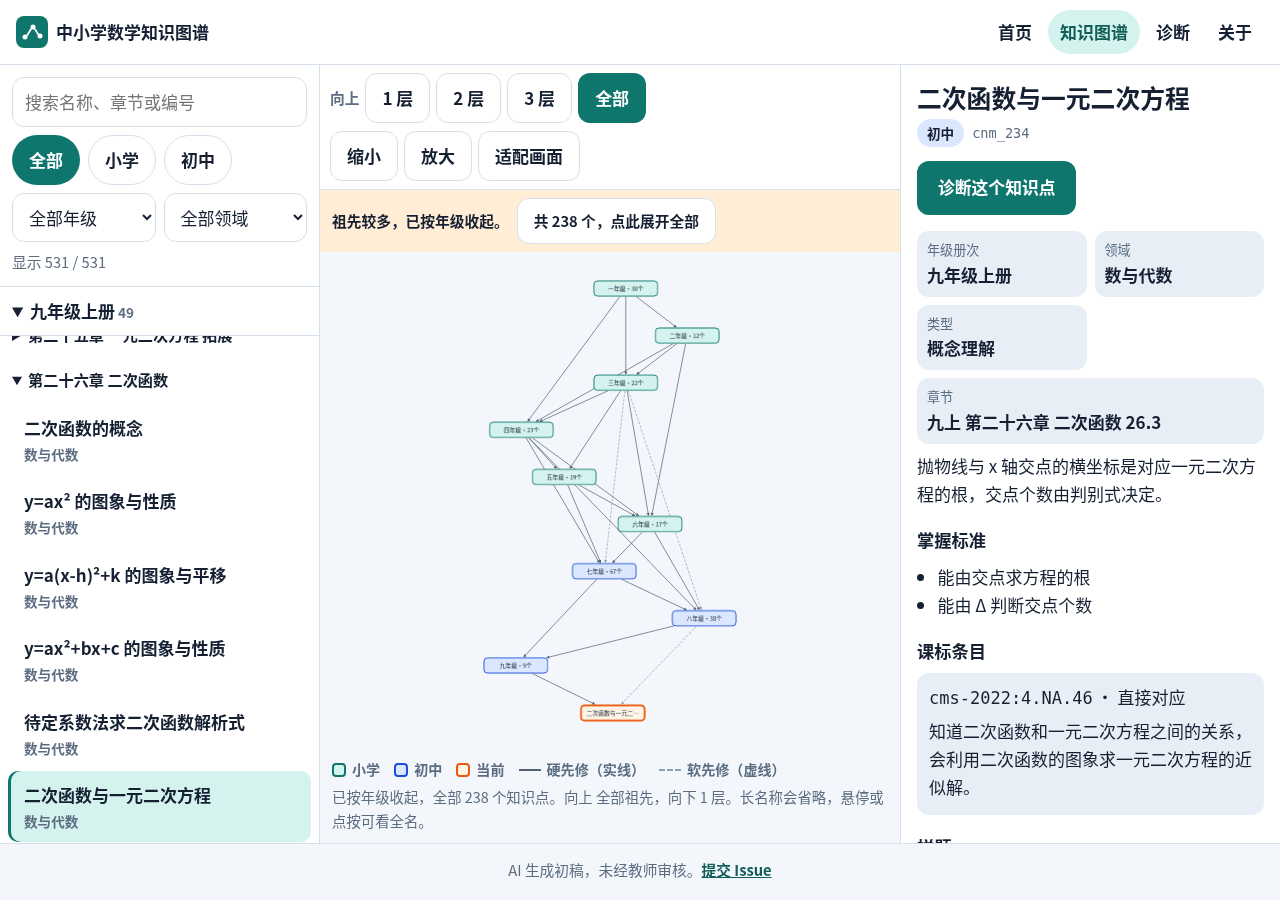
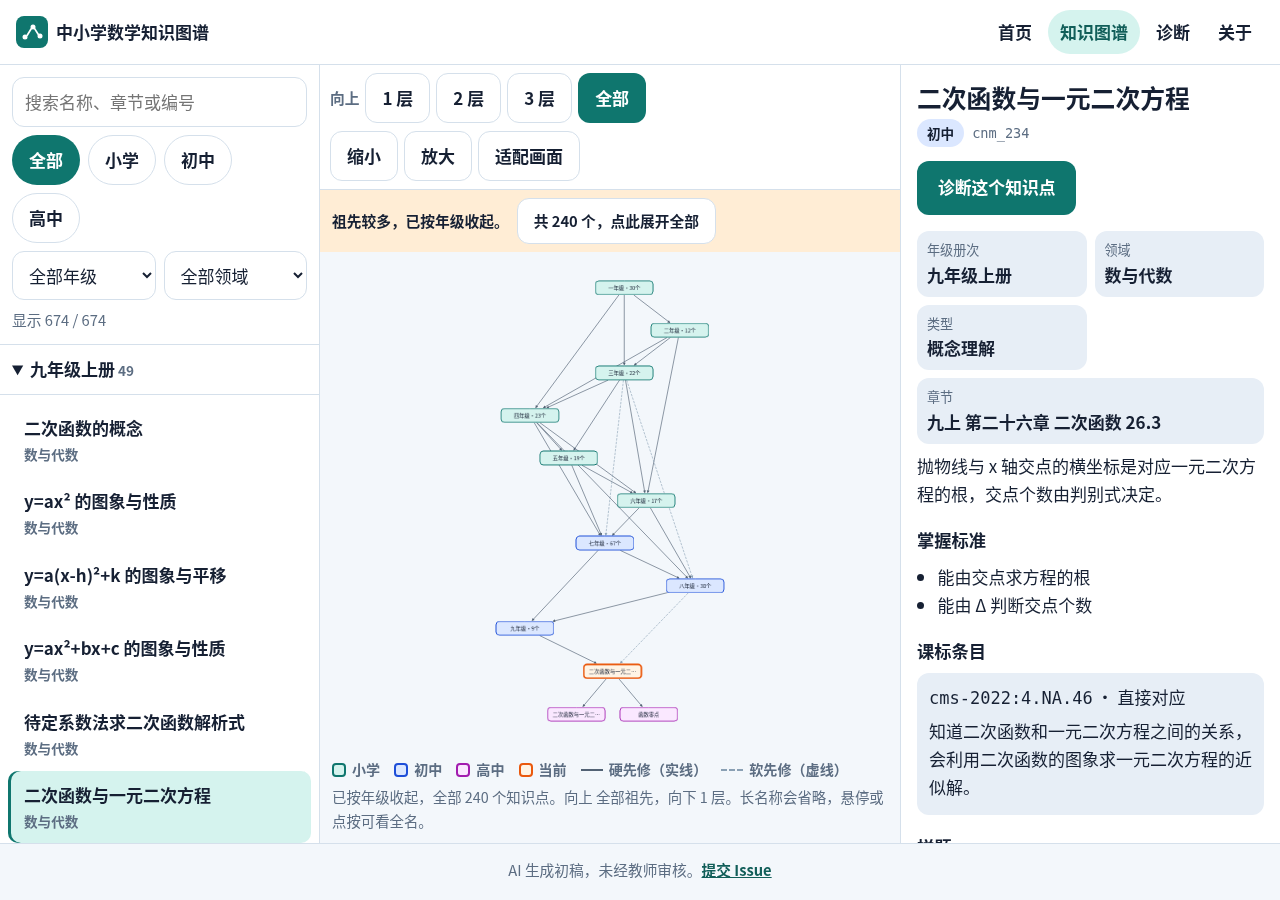
更新高中必修的说明、变更记录和截图
写明目前只做必修、人教 A 版、课标与目录待核，并补上高中浏览和诊断的截图。

diff --git a/docs/standards-mapping.md b/docs/standards-mapping.md
@@ -1,6 +1,6 @@
 # 课标对齐说明：知识点 ↔《义务教育数学课程标准（2022年版）》
 
-> **状态声明：映射由 AI 生成，未经教师或课程专家审核。** 小学与初中都一样。`exact` / `inferred` 是本项目自己的判断标记，不是课标的表述。
+> **状态声明：映射由 AI 生成，未经教师或课程专家审核。** 小学、初中和高中必修都一样。`exact` / `inferred` 是本项目自己的判断标记，不是课标的表述。高中必修 48 条是公开转述，不是逐页核对的原文。
 >
 > **2026-10-19：** 文件已包含第一至三学段。第四学段 157 条的正文没有改。第一至三学段 **不是** 教育部 PDF 的逐页核对，见第 1 节。下面第 3–5 节里「315 / 157 / 15 条无对应」是第三轮只做第四学段时的数字，当前全库数字在第 8 节。
 
@@ -170,3 +170,29 @@
 | `3.SP.01` | 经历数据收集、整理和分析，能述说结论 |
 
 小学知识点：216 个全部有映射；1 条映射 175 个，2 条映射 41 个。初中映射条数仍是第三轮的 exact 286 + inferred 97。小学新增映射是 exact 226 + inferred 31。
+
+## 9. 高中必修（2026-10-20）
+
+依据《普通高中数学课程标准（2017年版2020年修订）》必修课程的五个主题。印发通知：<http://www.moe.gov.cn/srcsite/A26/s8001/202006/t20200603_462199.html>。参考过 PDF <https://www.pep.com.cn/xw/zt/rjwy/gzkb2020/202205/P020220517519489596282.pdf>，**没有逐页核对**。48 条全部 `verbatim: false`，`page_or_ref` 为「待核」，`text_status` 写明是公开转述。
+
+编号 `cms-2017:H.<模块>.NN` 由本图谱按主题编排，不是教育部文件里的原编号。模块与领域不是一一对应：
+
+| 模块 | 条数 | 主题 |
+|---|---:|---|
+| PRE | 9 | 预备知识（集合、常用逻辑用语、相等关系与不等关系、从函数观点看一元二次方程和不等式） |
+| FUN | 17 | 函数（概念与性质、幂函数指数函数对数函数、三角函数、函数应用） |
+| GA | 12 | 几何与代数（平面向量及其应用、复数、立体几何初步）。复数挂在数与代数，向量和立体几何挂在图形与几何 |
+| PS | 8 | 概率与统计 |
+| MI | 2 | 数学建模活动与数学探究活动 |
+
+每个高中知识点挂 1 条。exact 48，inferred 95（inferred 都有 note，并写了待核）。选择性必修和 7.3 复数的三角表示没有编条目。原先没有任何知识点对应的 28 条义务教育课标没有因为这次扩展被引用，所以「无对应知识点」的条数仍是 28；278 条里被引用的是 250。
+
+| 指标 | 数值 |
+|---|---|
+| 课标条目 | 278（义务教育 230 + 高中必修 48） |
+| 正式知识点 | 674（小学 216，初中 315，高中必修 143） |
+| `standards` 非空 | **672 / 674** |
+| 仍为空 | `cnm_130`、`cnm_192` |
+| 映射条数 | exact 560，inferred 223 |
+| 至少有一条 exact 的知识点 | 496 |
+| 被引用的课标条目 | 250 / 278 |

diff --git a/CHANGELOG.md b/CHANGELOG.md
@@ -1,5 +1,30 @@
 # 变更日志
 
+## 2026-10-20（高中必修）
+
+把普通高中必修数学接进同一张图。小学、初中知识点的 **id、名称、题目没有改**；小学边和初中边没有改。只对新增的高中边做传递约简。
+
+### 范围
+
+- 课标：《普通高中数学课程标准（2017年版2020年修订）》必修五个主题。条目 48 条，编号 `cms-2017:H.<PRE|FUN|GA|PS|MI>.NN`（本图谱自编，不是教育部原编号）。正文未与教育部 PDF 逐页核对，全部 `verbatim: false`，`page_or_ref` 为「待核」。
+- 教材：人教 A 版（2019）必修第一册、必修第二册。章节目录来自第三方（教师之家、豆瓣日记、徐庆培目录 PDF），未核页码，待核。只写到能对上的节，不编造页码。
+- 不做选择性必修，也不做 7.3 复数的三角表示（选学）、条件概率、二面角的度数计算。
+- `grade` 10 = 必修第一册（页面称高一），11 = 必修第二册（页面称高二）。必修第二册通常在高一下讲授，这里拆成两个年级只是为了分册，待教师调整。
+
+### 数据
+
+- 新增 `cnm_h001`–`cnm_h143`（143 个）。必修第一册 78，必修第二册 65。
+- 新边写出 223 条，约简后保留 **196**（删去 27）。高中内部 **144**（hard 143，soft 1），跨学段 **52**（指向初中 50，指向小学 2；hard 34，soft 18）。全图先修边由 909 增至 **1105**（hard 965，soft 140）。根仍是 `cnm_p001`。
+- 题库新增 **572** 题（每点 4 题；numeric 362，choice 210；basic 与 standard 各 286），全部带 `verify`。`questions.json` 共 2843 题。
+- `scripts/verify_questions.py`：auto_verified 2311，mismatch 0，unverifiable 532（仍是原来没有 verify 的初中题）。`second_pass_log.json` 增加 D 轮：高中题由生成脚本写 verify，**不是盲解**。批次在 `data/_qbatches/high.json`。
+- 课标文件合计 **278** 条。
+
+### 页面
+
+- 首页年级卡片增加高一、高二，不写上下册。统计数字仍从数据文件计算。
+- 知识图谱和诊断增加学段「高中」。节点颜色：小学青绿、初中蓝、高中品红，图例写明。高中整体诊断只有「必修整册」。URL：`grade=高一`、`grade=高二`。
+- 不从外网加载脚本或字体。`scripts/deploy-cf.sh` 的拷贝列表不用改（没有新增运行时文件；`_qbatches` 本来就不部署）。
+
 ## 2026-10-20（按年级整体诊断，#1）
 
 `data/*.json` 没有改；单点、整章诊断的流程和结果页保持原样。
